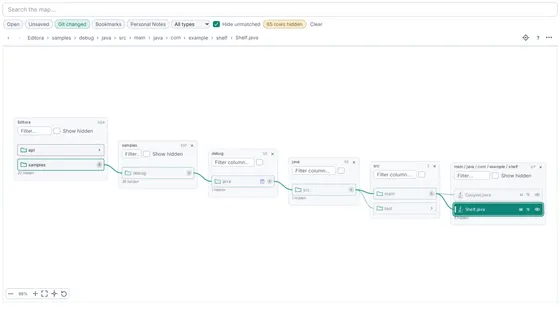
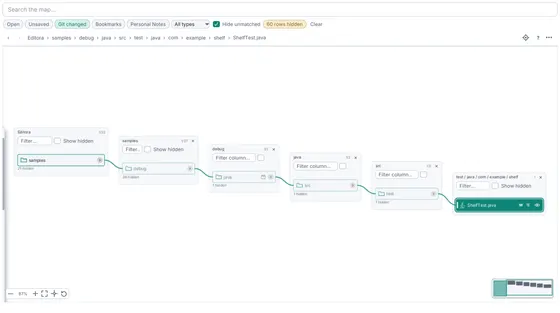
screenshots: recapture the Project Map shots
The Map now pans to centre a new card and its columns are compact, so
the overview, the preview card, Filters and the trail are recaptured,
light and dark. The card is shot at 90% so it fits beside its column
(new crop); Filters opens on the changed ShelfTest.java, so the path
down to it stays (60 rows hidden).

Recent changes and Callers as cards keep their 11-02 captures.

diff --git a/src/lib/screenshots.ts b/src/lib/screenshots.ts
@@ -117,7 +117,7 @@ export const mapShots: Shot[] = [
   shot("/screenshots/map/filters.png", {
     title: "Filters",
     caption: "Filters narrow the map and count what they hide.",
-    alt: "Git changed with Hide unmatched on: only the changed files and the folders that lead to them stay, with a 65 rows hidden badge and shown/total counts on each column",
+    alt: "Git changed with Hide unmatched on: only the changed files and the folders that lead to them stay, with a 60 rows hidden badge and shown/total counts on each column",
   }),
 ].map((s) => ({ ...s, more: { href: "/features/project-map", label: "More about the Project Map" } }));
 

diff --git a/scripts/GenFeatures.java b/scripts/GenFeatures.java
@@ -696,7 +696,7 @@ Right-click a declaration, or a name in a card, and choose **Show Callers as Car
 
 ## Search and filter
 
-![Git changed with Hide unmatched on: only the changed files and the folders that lead to them stay, with a 65 rows hidden badge, shown/total counts on each column and an N hidden line under each](/screenshots/map/filters.png "Git changed with Hide unmatched: only the changed files and their folders stay, and every column counts what it hid.")
+![Git changed with Hide unmatched on: only the changed files and the folders that lead to them stay, with a 60 rows hidden badge, shown/total counts on each column and an N hidden line under each](/screenshots/map/filters.png "Git changed with Hide unmatched: only the changed files and their folders stay, and every column counts what it hid.")
 
 The Map window has its own search over **the whole project**, however large: type a name, part of a path (`core/v1/types.go`), `#` for files only or `@` for declarations. A results strip counts the matches and steps through them, and clearing the search keeps your place. The filter row narrows the map to open, unsaved, Git-changed, bookmarked or noted files and by file type, fading everything else; **Hide unmatched** takes the rest off the map and counts what it hid.
 

diff --git a/src/content/features/project-map.md b/src/content/features/project-map.md
@@ -18,7 +18,7 @@ A local folder is listed whole, up to 50,000 entries, so a folder of thousands o
 
 ## Cards for a glance
 
-Click a file's **eye** for a read-only, syntax-highlighted **preview card** over the canvas, in the editor's font and with any unsaved text. A card opens the way a new column does, past its row's column the way the map flows, and the map pans to centre it with its row still in sight. A live connector keeps it tied to its row as you pan, zoom, move or resize it. **Open** takes the file to the editor.
+Click a file's **eye** for a read-only, syntax-highlighted **preview card** over the canvas, in the editor's font and with any unsaved text. A card opens the way the map flows, past its row's column, and never pans the map or covers the folders that lead to the file. A live connector keeps it tied to its row as you pan, zoom, move or resize it. **Open** takes the file to the editor.
 
 ![A read-only preview card for Shelf.java on the Project Map, opened past the file's column and joined to its row by a connector, showing syntax-highlighted Java, with the file's last change and the card's buttons in its header](/screenshots/docs/project-map-card.png "A preview card opens past the file's column, joined to its row.")
 
@@ -32,7 +32,7 @@ Right-click a declaration, or a name in a card, and choose **Show Callers as Car
 
 ## Search and filter
 
-![Git changed with Hide unmatched on: only the changed files and the folders that lead to them stay, with a 65 rows hidden badge, shown/total counts on each column and an N hidden line under each](/screenshots/map/filters.png "Git changed with Hide unmatched: only the changed files and their folders stay, and every column counts what it hid.")
+![Git changed with Hide unmatched on: only the changed files and the folders that lead to them stay, with a 60 rows hidden badge, shown/total counts on each column and an N hidden line under each](/screenshots/map/filters.png "Git changed with Hide unmatched: only the changed files and their folders stay, and every column counts what it hid.")
 
 The Map window has its own search over **the whole project**, however large: type a name, part of a path (`core/v1/types.go`), `#` for files only or `@` for declarations. A results strip counts the matches and steps through them, and clearing the search keeps your place. The filter row narrows the map to open, unsaved, Git-changed, bookmarked or noted files and by file type, fading everything else; **Hide unmatched** takes the rest off the map and counts what it hid.
 
